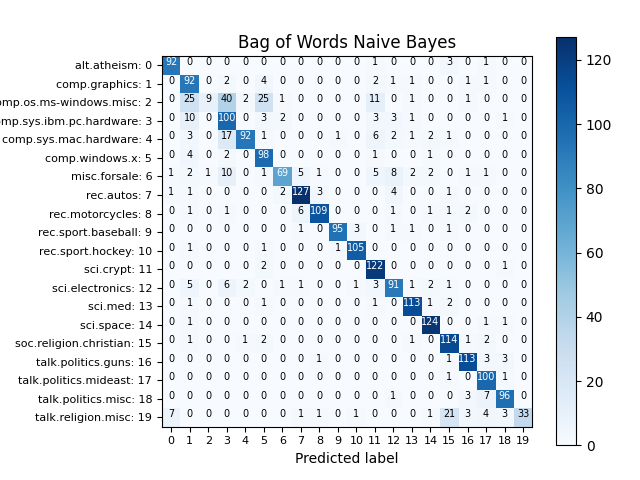
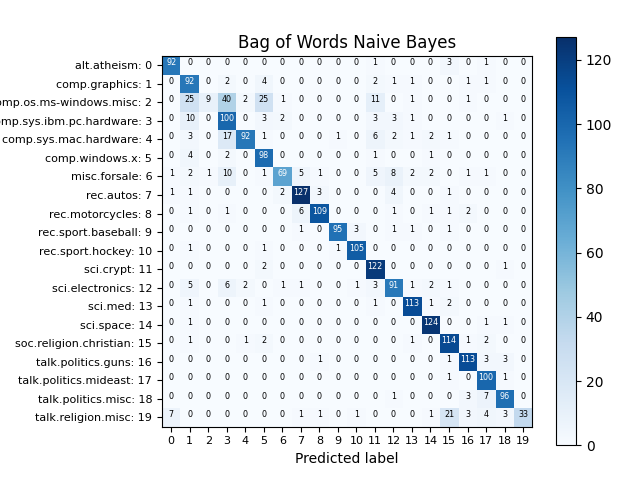
updating

diff --git a/Class_project.py b/Class_project.py
@@ -8,6 +8,8 @@ from sklearn.ensemble import RandomForestClassifier
 from sklearn.pipeline import Pipeline
 from sklearn.model_selection import train_test_split, GridSearchCV, cross_val_score
 import sklearn.metrics
+from sklearn.metrics import make_scorer, balanced_accuracy_score
+from sklearn.svm import SVC
 from collections import Counter
 from sortedcontainers import SortedDict
 import numpy as np
@@ -79,7 +81,7 @@ def plot_confusion_matrix(cm, classes,
 # Note - should remove headers footers and quotes, as machine learning algorithms tend to focus on these
 #https://scikit-learn.org/0.19/datasets/twenty_newsgroups.html
 
-remove_extra_data_bool = True
+remove_extra_data_bool = False
 
 twenty_train = None
 twenty_test = None
@@ -174,50 +176,37 @@ def word_count_plot (vect_counts, fig_name):
 def get_term(dict, search_index):
     return list(dict.keys())[list(dict.values()).index(search_index)]
 # If performing bag_of_words tests, state that here
+
+
+# Create a custom scoring function
+balanced_accuracy_scorer = make_scorer(balanced_accuracy_score)
+
 bag_of_words = False
 
 if bag_of_words:
     # Perform bag of words approach. This creates a sparse matrix where each word is assigned a number
     count_vect = CountVectorizer(strip_accents='unicode', min_df = 50, max_df = 400, max_features = 10000, ngram_range=(1, 3))
     X_train_counts = count_vect.fit_transform(twenty_train.data)
-    #print(count_vect.vocabulary_)
-    #print(X_train_counts.shape)
 
-    #word_count_plot(X_train_counts)
-
-    # X_train_counts_wordcount = X_train_counts.sum(axis=0)
-    # print("Word count is: ", X_train_counts_wordcount[0])
-
-    # print("trying to make plot")
-    # plt.plot(X_train_counts_wordcount.T)
-    #plt.show()
-    # # print(count_vect.vocabulary_.get(u'the'))
-    # # print(count_vect.vocabulary_.get(u'alpha'))
-
-    # print("the second word appears: ", X_train_counts.shape[1], " times")
-    # CountVectorizer just turns articles into features with frequencies of words
-
-
-
-    #bow_nb = MultinomialNB().fit(X_train_counts, y_train)
 
     text_bow = Pipeline([('vect', CountVectorizer()), ('clf', MultinomialNB()),])
 
-    scores = cross_val_score(text_bow, twenty_train.data, twenty_train.target, cv=5)
+    scores = cross_val_score(text_bow, twenty_train.data, twenty_train.target, cv=5, scoring = balanced_accuracy_scorer)
     print(scores)
-    print("Cross Val score is ", scores.mean())
+    print("Balanced Accuracy Cross Val score is ", scores.mean())
 
     text_bow.fit(X_train, y_train)
     predicted = text_bow.predict(X_validation)
-    print(np.mean(predicted == y_validation))
-    
+    #print(np.mean(predicted == y_validation))
+    print(sklearn.metrics.balanced_accuracy_score(y_validation, predicted))
+
     graph_title = None
-    if remove_extra_data_bool: graph_title = "Stripped Bag of Words Naive Bayes"
-    else: graph_title = "Bag of Words Naive Bayes"
+    if remove_extra_data_bool: graph_title = "Normalized Stripped Bag of Words Naive Bayes"
+    else: graph_title = "Normalized Bag of Words Naive Bayes CM"
 
     #print (metrics.classification_report(y_validation, predicted))
-    cm = confusion_matrix(y_validation, predicted)
-    plot_confusion_matrix(cm, categories, title = graph_title)
+    cm = metrics.confusion_matrix(y_validation, predicted)
+    plot_confusion_matrix(cm, categories, title = graph_title, normalize = True)
     
     # vis = ConfusionMatrixDisplay(confusion_matrix=conf_matrix, display_labels=text_bow.classes_)
     # vis.plot()
@@ -232,11 +221,11 @@ if bag_of_words:
     # Inverse document frequency decreases the weights of words based on how often they appear in many documents
 
 run_experiment_bool = False
-tfidf_bool = False
+tfidf_bool = True
 naive_bayes_bool = True
-svm_bool = False
-random_forest_bool = False
-run_final_experiment = True
+svm_bool = True
+random_forest_bool = True
+run_final_experiment = False
 
 if tfidf_bool:
     # count_vect = CountVectorizer()
@@ -294,24 +283,27 @@ if tfidf_bool:
         # Create a pipeline that performs the three relevant functions
         text_clf = Pipeline([('vect', CountVectorizer()), ('tfidf', TfidfTransformer()), ('clf', MultinomialNB()),])
 
-        scores = cross_val_score(text_clf, twenty_train.data, twenty_train.target, cv=5)
+        scores = cross_val_score(text_clf, twenty_train.data, twenty_train.target, cv=5, scoring = balanced_accuracy_scorer)
         print(scores)
         print(scores.mean())
 
         text_clf.fit(X_train, y_train)
         predicted = text_clf.predict(X_validation)
 
-        print("Prediction accuracy on validation set is: ", np.mean(predicted == y_validation))
-        print (metrics.classification_report(y_validation, predicted))
+        # print("Prediction accuracy on validation set is: ", np.mean(predicted == y_validation))
+        # print (metrics.classification_report(y_validation, predicted))
 
-        graph_title = None
-        if remove_extra_data_bool: graph_title = "Stripped TF-IDF Naive Bayes Confusion Matrix"
-        else: graph_title = "TF-IDF Naive Bayes Confusion Matrix"
+        print("Balanced Accuracy score is: ")
+        print(sklearn.metrics.balanced_accuracy_score(y_validation, predicted))
 
-        # Plot Confusion Matrix
-        confusion_matrix = metrics.confusion_matrix(y_validation, predicted)
-        plot_confusion_matrix(confusion_matrix, categories, title = graph_title)
-        confusion_matrix = None
+        # graph_title = None
+        # if remove_extra_data_bool: graph_title = "Normalized Stripped TF-IDF Naive Bayes CM"
+        # else: graph_title = "Normalized TF-IDF Naive Bayes CM"
+
+        # # Plot Confusion Matrix
+        # confusion_matrix = metrics.confusion_matrix(y_validation, predicted)
+        # plot_confusion_matrix(confusion_matrix, categories, title = graph_title, normalize = True)
+        
         # # The predicted value on the tf-idf validation set is 0.844
         # #print(np.mean(predicted == y_validation))
         
@@ -329,7 +321,7 @@ if tfidf_bool:
         tf_idf_counts = tf_idf_vectorizer.fit_transform(twenty_train.data)
 
         #Consider cross validation score with entire training dataset
-        scores = cross_val_score(text_clf, twenty_train.data, twenty_train.target, cv=5)
+        scores = cross_val_score(text_clf, twenty_train.data, twenty_train.target, cv=5, scoring = balanced_accuracy_scorer)
         print(scores)
         print(scores.mean())
         #Score is: 
@@ -351,9 +343,10 @@ if tfidf_bool:
 
         predicted = text_clf.predict(X_validation)
         # # # The predicted value of the tf-idf validation set is 0.891
-        print("Prediction accuracy on validation set is: ", np.mean(predicted == y_validation))
-        print (metrics.classification_report(y_validation, predicted))
-
+        # print("Prediction accuracy on validation set is: ", np.mean(predicted == y_validation))
+        #print (metrics.classification_report(y_validation, predicted))
+        print("Balanced Accuracy score is: ")
+        print(sklearn.metrics.balanced_accuracy_score(y_validation, predicted))
         # graph_title = None
         # if remove_extra_data_bool: graph_title = "Stripped TF-IDF SVM Confusion Matrix"
         # else: graph_title = "TF-IDF SVM Confusion Matrix"
@@ -404,7 +397,7 @@ if random_forest_bool:
     tf_idf_counts = tf_idf_vectorizer.fit_transform(twenty_train.data)
 
     rf = RandomForestClassifier()
-    scores = cross_val_score(rf, tf_idf_counts, twenty_train.target, cv=5)
+    scores = cross_val_score(rf, tf_idf_counts, twenty_train.target, cv=5, scoring = balanced_accuracy_scorer)
     print(scores)
     print(scores.mean())
     #[0.83296509 0.81926646 0.84489616 0.837384   0.83510168]
@@ -415,18 +408,20 @@ if random_forest_bool:
     text_clf.fit(X_train, y_train)
     predicted = text_clf.predict(X_validation)
 
-    print("Prediction accuracy on validation set is: ", np.mean(predicted == y_validation))
-    print (metrics.classification_report(y_validation, predicted))
+    #print("Prediction accuracy on validation set is: ", np.mean(predicted == y_validation))
+    print("Balanced Accuracy score is: ")
+    print(sklearn.metrics.balanced_accuracy_score(y_validation, predicted))
+    #print (metrics.classification_report(y_validation, predicted))
 
 
 
-    graph_title = None
-    if remove_extra_data_bool: graph_title = "Stripped TF-IDF Random Forest Confusion Matrix"
-    else: graph_title = "TF-IDF Random Forest Confusion Matrix"
+    # graph_title = None
+    # if remove_extra_data_bool: graph_title = "Stripped TF-IDF Random Forest Confusion Matrix"
+    # else: graph_title = "TF-IDF Random Forest Confusion Matrix"
 
-    # # Plot Confusion Matrix
-    confusion_matrix = metrics.confusion_matrix(y_validation, predicted)
-    plot_confusion_matrix(confusion_matrix, categories, title = graph_title)
+    # # # Plot Confusion Matrix
+    # confusion_matrix = metrics.confusion_matrix(y_validation, predicted)
+    # plot_confusion_matrix(confusion_matrix, categories, title = graph_title)
 
     def print_results(results):
         print('BEST PARAMS: {}\n'.format(results.best_params_))
